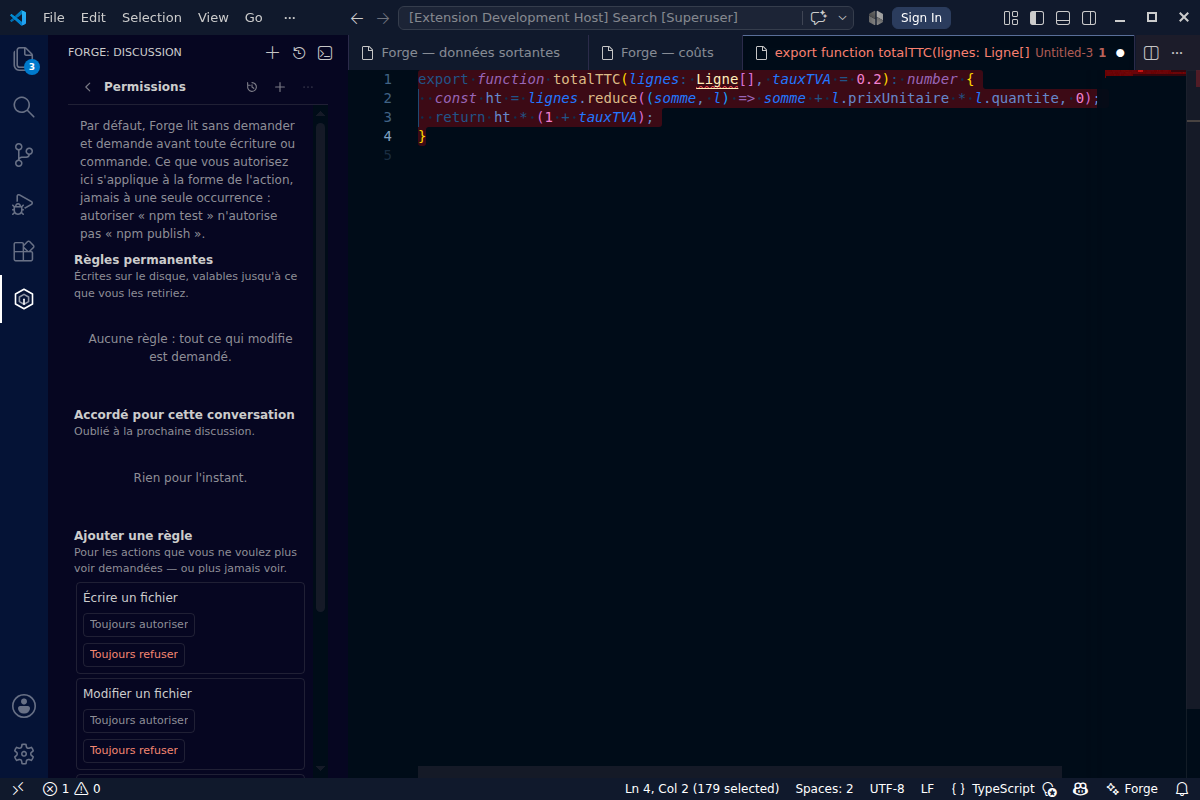
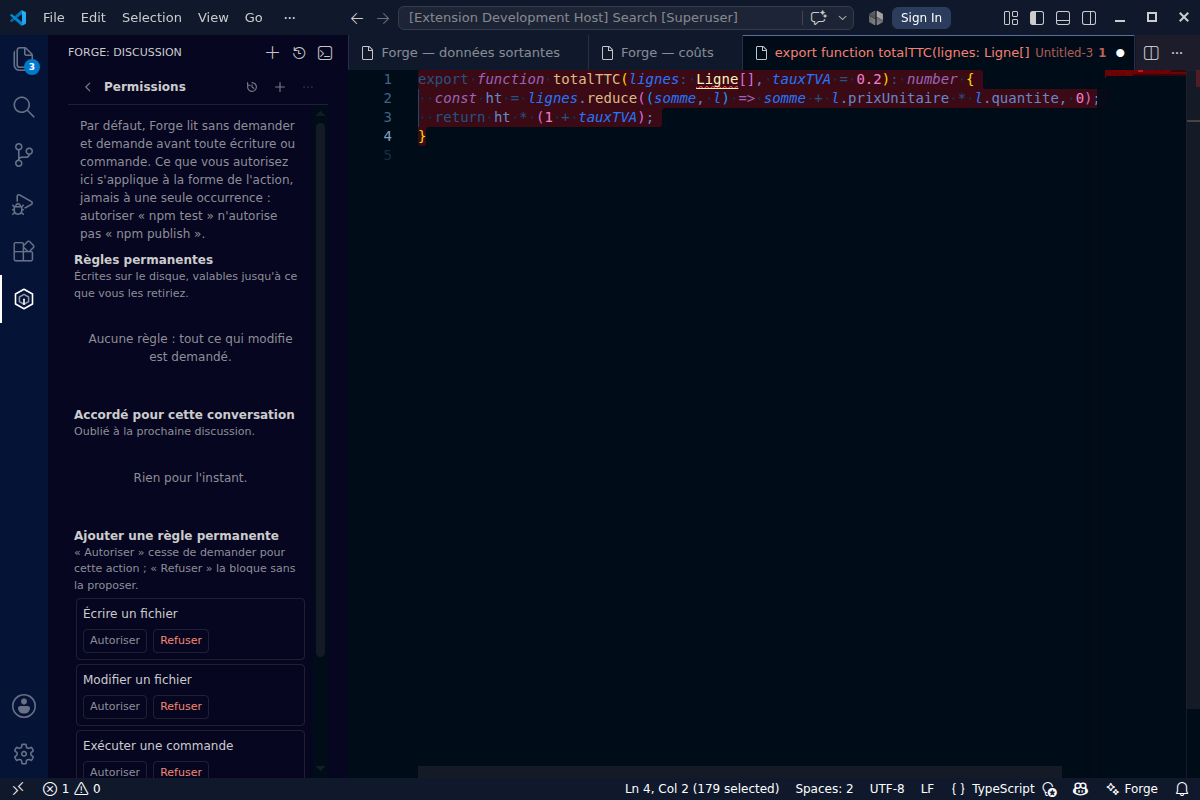
fix(ui): permission rows fit the sidebar width
Two buttons and a label do not share a 300 px line: the label now takes the first
line and the actions the second, and "Toujours autoriser / Toujours refuser"
became "Autoriser / Refuser" with the sense moved into the section heading.

Changed region(s): [[0.0617, 0.6562, 0.2467, 0.9688]]

diff --git a/src/webview/permissions.ts b/src/webview/permissions.ts
@@ -55,7 +55,12 @@ export function permissionsScreen(state: UiState, send: (m: ToExtension) => void
   }
   wrap.append(temp);
 
-  wrap.append(sectionTitle("Ajouter une règle", "Pour les actions que vous ne voulez plus voir demandées — ou plus jamais voir."));
+  wrap.append(
+    sectionTitle(
+      "Ajouter une règle permanente",
+      "« Autoriser » cesse de demander pour cette action ; « Refuser » la bloque sans la proposer.",
+    ),
+  );
   const add = el("div", "perm-add");
   for (const tool of GRANTABLE) {
     const row = el("div", "perm-add-row");
@@ -63,13 +68,13 @@ export function permissionsScreen(state: UiState, send: (m: ToExtension) => void
     row.append(el("div", "spacer"));
     row.append(
       button({
-        label: "Toujours autoriser",
+        label: "Autoriser",
         className: "btn tiny",
         title: "Cette action ne sera plus demandée, dans tous les espaces de travail",
         onClick: () => send({ type: "setPermission", tool, level: "always" }),
       }),
       button({
-        label: "Toujours refuser",
+        label: "Refuser",
         className: "btn tiny danger",
         title: "Cette action sera refusée sans être proposée",
         onClick: () => send({ type: "setPermission", tool, level: "never" }),
